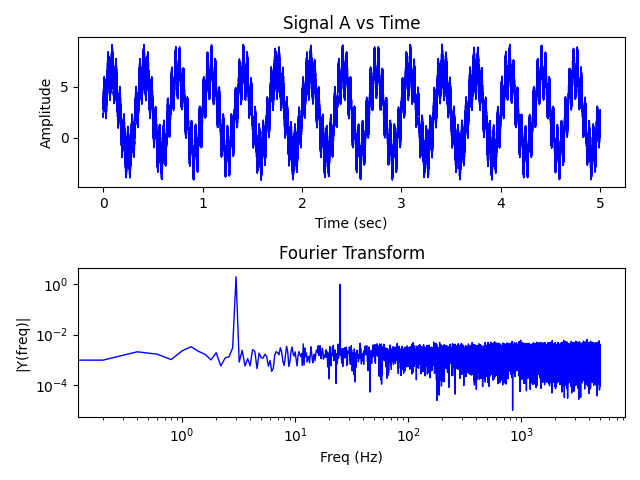
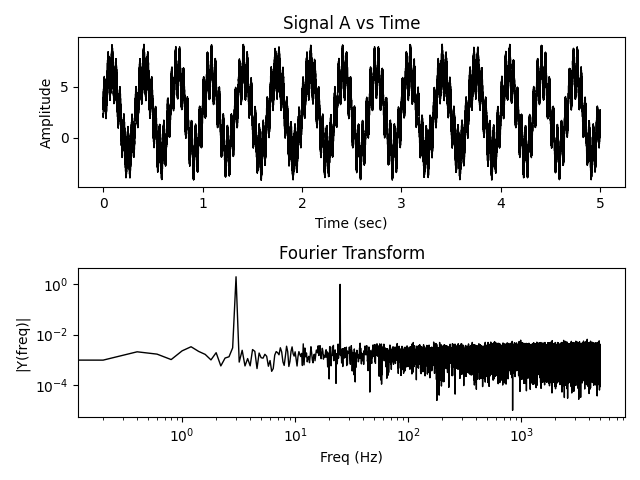
Question 5 test
Got a single before and after to work

Changed region(s): [[0.1562, 0.0938, 0.9375, 0.375], [0.1562, 0.5938, 0.9375, 0.8438]]

diff --git a/HW10/signal_processing.py b/HW10/signal_processing.py
@@ -50,24 +50,28 @@ rate_D = len(tD)/tD[-1]
     # input("wait")
 
 # Question 4: Signal vs time and FFT ------------------------------------------
-def basic_fft(sample_rate,time_vector,signal_vector,title):
-    Fs = sample_rate # sample rate
-    Ts = 1.0/Fs; # sampling interval
-    y = signal_vector # the data to make the fft from
-    n = len(y) # length of the signal
-    k = np.arange(n)
-    T = n/Fs
-    frq = k/T # two sides frequency range
-    frq = frq[range(int(n/2))] # one side frequency range
-    Y = np.fft.fft(y)/n # fft computing and normalization
-    Y = Y[range(int(n/2))]
-
+def basic_fft(sample_rate,time_vector,signal_vectors,title):
+    colors = ['k','r']
     fig, (ax1, ax2) = plt.subplots(2, 1)
-    ax1.plot(time_vector,y,'b',linewidth = 1)
+    
+    for i, signal in enumerate(signal_vectors):
+        Fs = sample_rate # sample rate
+        Ts = 1.0/Fs; # sampling interval
+        y = signal # the data to make the fft from
+        n = len(y) # length of the signal
+        k = np.arange(n)
+        T = n/Fs
+        frq = k/T # two sides frequency range
+        frq = frq[range(int(n/2))] # one side frequency range
+        Y = np.fft.fft(y)/n # fft computing and normalization
+        Y = Y[range(int(n/2))]
+
+        ax1.plot(time_vector,y,colors[i],linewidth = 1)
+        ax2.loglog(frq,abs(Y),colors[i],linewidth = 1) # plotting the fft
+
     ax1.set_xlabel('Time (sec)')
     ax1.set_ylabel('Amplitude')
     ax1.title.set_text(title)
-    ax2.loglog(frq,abs(Y),'b',linewidth = 1) # plotting the fft
     ax2.set_xlabel('Freq (Hz)')
     ax2.set_ylabel('|Y(freq)|')
     ax2.title.set_text('Fourier Transform')
@@ -78,3 +82,20 @@ def basic_fft(sample_rate,time_vector,signal_vector,title):
 # basic_fft(rate_B,tB,sB,'Signal B vs Time')
 # basic_fft(rate_C,tC,sC,'Signal C vs Time')
 # basic_fft(rate_D,tD,sD,'Signal D vs Time')
+
+# Question 5: Moving average filter -------------------------------------------
+
+def move_average(data,avg_pts):
+    avgd_data = []
+    long_data = [0]*(avg_pts-1) + data
+
+    for i in range(avg_pts-1,len(long_data)):
+        avg_chunk = np.mean(long_data[i-(avg_pts-1):i])
+        avgd_data.append(avg_chunk)
+    
+    return (avgd_data)
+
+msigA = move_average(sA,20)
+
+basic_fft(rate_A,tA,[sA,msigA],'Signal A vs Time')
+
